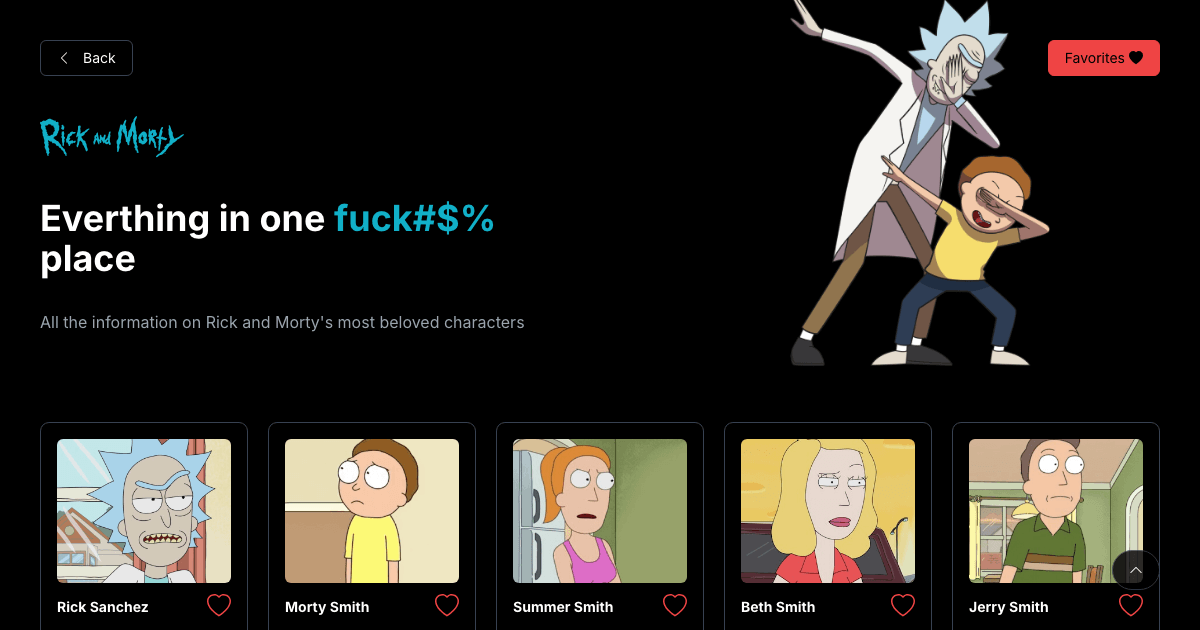
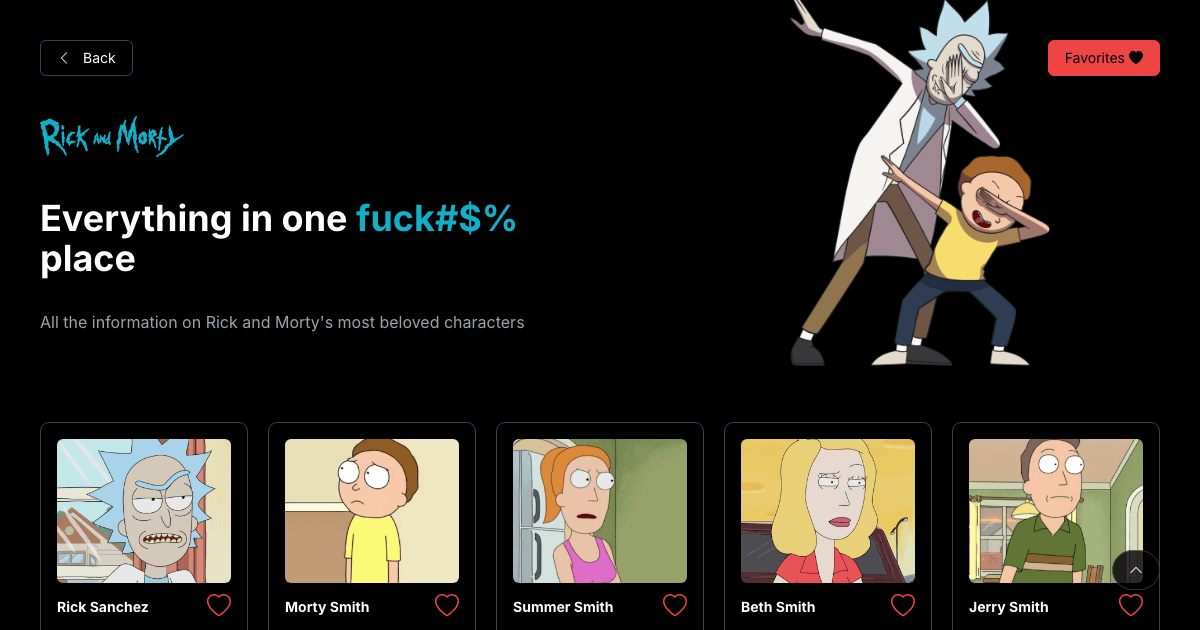
fix: title typo and direct visits to client routes (#2)
* fix: correct the "Everthing" typo in the section title

The title on the home and section pages now reads "Everything in one
fuck#$% place"; the rest of the title is unchanged. public/thumb.png is
regenerated from /characters in dark mode so the preview card shows the
corrected title.

* fix: serve the app on direct visits to client routes

Opening /characters, /episodes or /locations straight from the address
bar returned Vercel's 404, because only index.html knows the routes.
Vercel serves existing files first, so assets are unaffected.

---------

Changed region(s): [[0.0925, 0.3016, 0.4317, 0.3921]]

diff --git a/src/components/Template.GenericSection.tsx b/src/components/Template.GenericSection.tsx
@@ -28,7 +28,7 @@ export default function TemplateGenericSection(
       </header>
       <article className="w-full md:w-1/2 flex flex-col justify-center gap-8 mb-12">
         <h1 className="text-4xl font-bold">
-          Everthing in one <span className="text-4xl text-pui-theme"> fuck#$%</span>{" "}
+          Everything in one <span className="text-4xl text-pui-theme"> fuck#$%</span>{" "}
           place
         </h1>
 

diff --git a/src/components/Template.HomeSection.tsx b/src/components/Template.HomeSection.tsx
@@ -29,7 +29,7 @@ export default function TemplateHomeSection() {
       </header>
       <article className="w-full md:w-1/2 flex flex-col justify-center gap-8 my-12">
         <h1 className="text-4xl font-bold">
-          Everthing in one <span className="text-4xl text-pui-theme"> fuck#$%</span>{" "}
+          Everything in one <span className="text-4xl text-pui-theme"> fuck#$%</span>{" "}
           place
         </h1>
 
